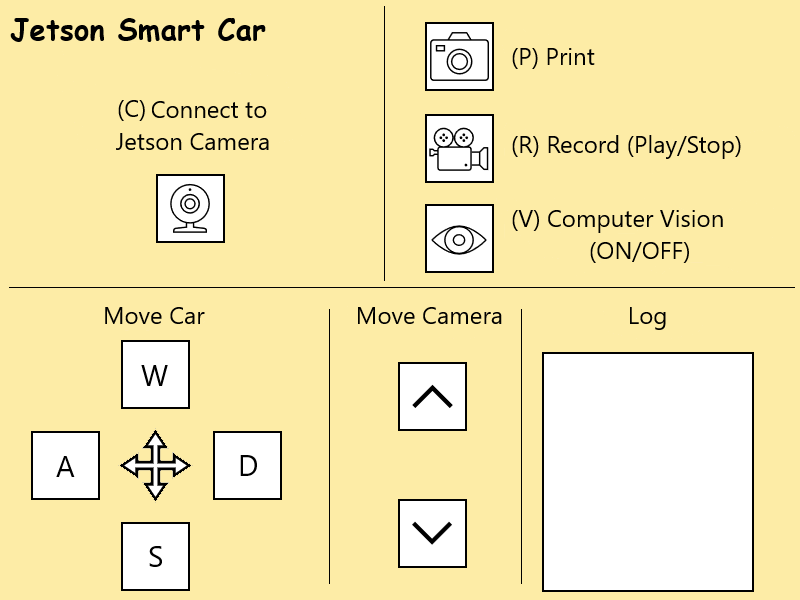
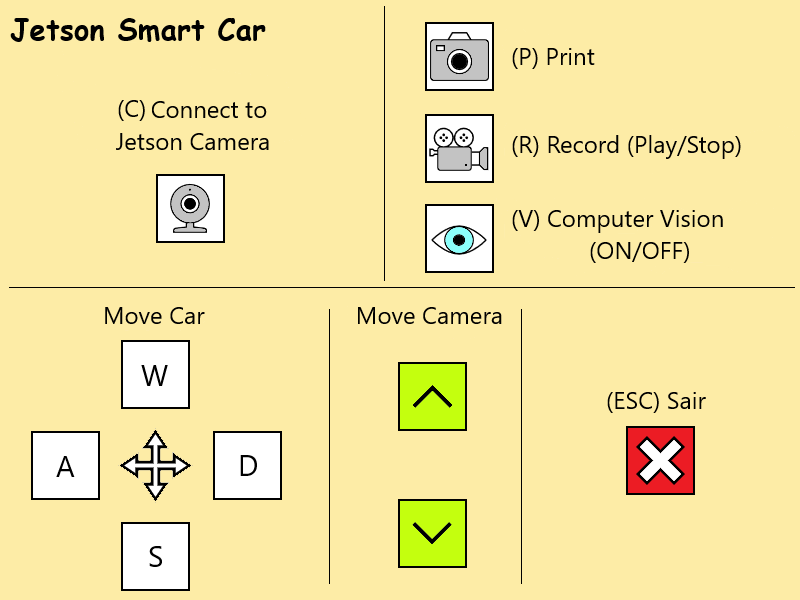
Melhoria e correção de bugs na nova interface gráfica

diff --git a/interface-grafica/pygame-test/smart.py b/interface-grafica/pygame-test/smart.py
@@ -2,6 +2,8 @@ import pygame
 import PySimpleGUI as sg
 import webbrowser
 
+from botao import Button
+
 pygame.init()
 
 size = width, height = 800, 600
@@ -12,6 +14,27 @@ imagem_fundo = pygame.image.load('img.png')
 
 janela_aberta = True
 
+texto_ip = ''
+font = pygame.font.Font('freesansbold.ttf', 14)
+
+#Definindo os botões da tela
+#Button(cor, x, y, width, height, text)
+cor_btn = r, g, b = 0, 255, 255
+#Direcionais
+btn_W = Button(cor_btn, 123, 342, 65, 65, 'W')
+btn_S = Button(cor_btn, 123, 524, 65, 65, 'S')
+btn_A = Button(cor_btn, 33, 433, 65, 65, 'A')
+btn_D = Button(cor_btn, 215, 433, 65, 65, 'D')
+#Câmera
+btn_UP = Button(cor_btn, 400, 364, 65, 65, '^')
+btn_DOWN = Button(cor_btn, 400, 501, 65, 65, 'v')
+#Funcionalidades
+btn_C = Button(cor_btn, 158, 176, 65, 65, 'C') #Connect camera
+btn_P = Button(cor_btn, 427, 24, 65, 65, 'P')  #Print
+btn_R = Button(cor_btn, 427, 116, 65, 65, 'R') #Record
+btn_V = Button(cor_btn, 427, 206, 65, 65, 'V') #CV On-Off
+btn_ESC = Button(cor_btn, 628, 428, 65, 65, 'ESC') #ESC-Sair
+
 while janela_aberta:
 
     pygame.time.delay(50) #milissegundos
@@ -21,64 +44,102 @@ while janela_aberta:
         if event.type == pygame.QUIT:
             janela_aberta = False
 
+        #Lê a tecla pressionada pelo usuário, mas por estar dentro do loop for, lerá apenas um único toque/clique
+        #Teclado
         comandos_clique_unico = pygame.key.get_pressed()
+        #Mouse
+        mouse_pos = pygame.mouse.get_pos()
+        #btn_esq, btn_meio, btn_dir = pygame.mouse.get_pressed()
 
         #Tira print
-        if comandos_clique_unico[pygame.K_p]:
+        if comandos_clique_unico[pygame.K_p] or (btn_P.isOver(mouse_pos) and event.type == pygame.MOUSEBUTTONUP):
             print("Clicou em p")
 
         #Grava vídeo (play/pause)
-        if comandos_clique_unico[pygame.K_r]:
+        if comandos_clique_unico[pygame.K_r] or (btn_R.isOver(mouse_pos) and event.type == pygame.MOUSEBUTTONUP):
             print("Clicou em r")
 
         #Ativa/desativa visão computacional
-        if comandos_clique_unico[pygame.K_v]:
+        if comandos_clique_unico[pygame.K_v] or (btn_V.isOver(mouse_pos) and event.type == pygame.MOUSEBUTTONUP):
             print("Clicou em v")
         
-        if comandos_clique_unico[pygame.K_c]:
+        #Abre navegador com a imagem da câmera
+        if comandos_clique_unico[pygame.K_c] or (btn_C.isOver(mouse_pos) and event.type == pygame.MOUSEBUTTONUP):
             print("Clicou em c")
             #Captura o IP da Jetson no momento da inicialização
             ip = sg.PopupGetText('Informe o IP da Jetson para acessar sua câmera', 'IP Jetson')
-            
+
             if not(ip is None) and (ip != ""):
+                link_cam = 'http://{}:8000'.format(ip)
+                texto_ip = 'Access cam at: {}'.format(link_cam) #Pequeno log na tela
+                print("Jetson camera running on IP: {}".format(ip))
+
+                #Delay para dar tempo de soltar o clique do mouse antes de abrir o navegador, senão entra em um loop infinito
+                pygame.time.delay(1000)
                 #Abre o navegador com o IP informado, desde que ele seja diferente de None/Null e não esteja vazio
-                webbrowser.open('http://{}:8000'.format(ip), new=0, autoraise=True)
+                webbrowser.open(link_cam, new=0, autoraise=True)
         
         #Fecha a janela
-        if comandos_clique_unico[pygame.K_ESCAPE]:
+        if comandos_clique_unico[pygame.K_ESCAPE] or (btn_ESC.isOver(mouse_pos) and event.type == pygame.MOUSEBUTTONUP):
             janela_aberta = False
             print("Clicou em ESC")
 
 
     #Lê a tecla pressionada pelo usuário e executa a ação enquanto a tecla estiver pressionada
+    #Teclado
     comandos = pygame.key.get_pressed()
+    #Mouse
+    mouse_position = pygame.mouse.get_pos()
+    btn_esq_mouse_press, btn_meio_mouse_press, btn_dir_mouse_press = pygame.mouse.get_pressed()
 
     #Camera para cima
-    if comandos[pygame.K_UP]:
+    if comandos[pygame.K_UP] or (btn_UP.isOver(mouse_position) and btn_esq_mouse_press):
         print("clicou seta para cima")
         
     #Camera para baixo
-    if comandos[pygame.K_DOWN]:
+    if comandos[pygame.K_DOWN] or (btn_DOWN.isOver(mouse_position) and btn_esq_mouse_press):
         print("clicou seta para baixo")
         
     #Carro para frente
-    if comandos[pygame.K_w]:
+    if comandos[pygame.K_w] or (btn_W.isOver(mouse_position) and btn_esq_mouse_press):
         print("clicou w (frente)")
     
     #Carro para trás
-    if comandos[pygame.K_s]:
+    if comandos[pygame.K_s] or (btn_S.isOver(mouse_position) and btn_esq_mouse_press):
         print("clicou s (trás)")
 
     #Carro para esquerda
-    if comandos[pygame.K_a]:
+    if comandos[pygame.K_a] or (btn_A.isOver(mouse_position) and btn_esq_mouse_press):
         print("clicou a (esquerda)")
         
     #Carro para direita
-    if comandos[pygame.K_d]:
+    if comandos[pygame.K_d] or (btn_D.isOver(mouse_position) and btn_esq_mouse_press):
         print("clicou d (direita)")
     
-    #pygame.draw.circle(tela, (0,255,0), (400,300), 50)
-    tela.blit(imagem_fundo,(0,0)) #Carrega imagem da variável imagem_fundo na tela
+    #Carrega imagem da variável imagem_fundo na tela
+    tela.blit(imagem_fundo,(0,0))
+
+    #Pequeno log para mostrar o IP em que a câmera está rodando
+    texto = font.render(texto_ip, True, (0,255,0), (0,0,128))
+    text_rect = texto.get_rect() #captura a área escrita do texto
+    text_rect.center = (200,270) #posiciona o centro do texto na tela
+    tela.blit(texto, text_rect)  #mostra o texto
+
+    #Desenha os botões na tela por cima da imagem carregada
+    btn_W.draw(tela)
+    btn_S.draw(tela)
+    btn_A.draw(tela)
+    btn_D.draw(tela)
+
+    #Não são desenhados na tela, para não sobrepor os ícones, mas sua área continua ativa funcionando como botão
+    '''btn_UP.draw(tela)
+    btn_DOWN.draw(tela)
+    btn_C.draw(tela)
+    btn_P.draw(tela)
+    btn_R.draw(tela)
+    btn_V.draw(tela)
+    btn_ESC.draw(tela)'''
+
     pygame.display.update()
 
 pygame.quit()

diff --git a/interface-grafica/pygame-test/botao.py b/interface-grafica/pygame-test/botao.py
@@ -1,0 +1,30 @@
+import pygame
+
+class Button():
+    def __init__(self, color, x, y, width, height, text=''):
+        self.color = color
+        self.x = x
+        self.y = y
+        self.width = width
+        self.height = height
+        self.text = text
+
+    def draw(self, win, outline=None):
+        #Call this method to draw the button on the screen
+        if outline:
+            pygame.draw.rect(win, outline, (self.x-2,self.y-2,self.width+4,self.height+4),0)
+            
+        pygame.draw.rect(win, self.color, (self.x,self.y,self.width,self.height),0)
+        
+        if self.text != '':
+            font = pygame.font.SysFont('comicsans', 60)
+            text = font.render(self.text, 1, (0,0,0))
+            win.blit(text, (self.x + (self.width/2 - text.get_width()/2), self.y + (self.height/2 - text.get_height()/2)))
+
+    def isOver(self, pos):
+        #Pos is the mouse position or a tuple of (x,y) coordinates
+        if pos[0] > self.x and pos[0] < self.x + self.width:
+            if pos[1] > self.y and pos[1] < self.y + self.height:
+                return True
+            
+        return False
